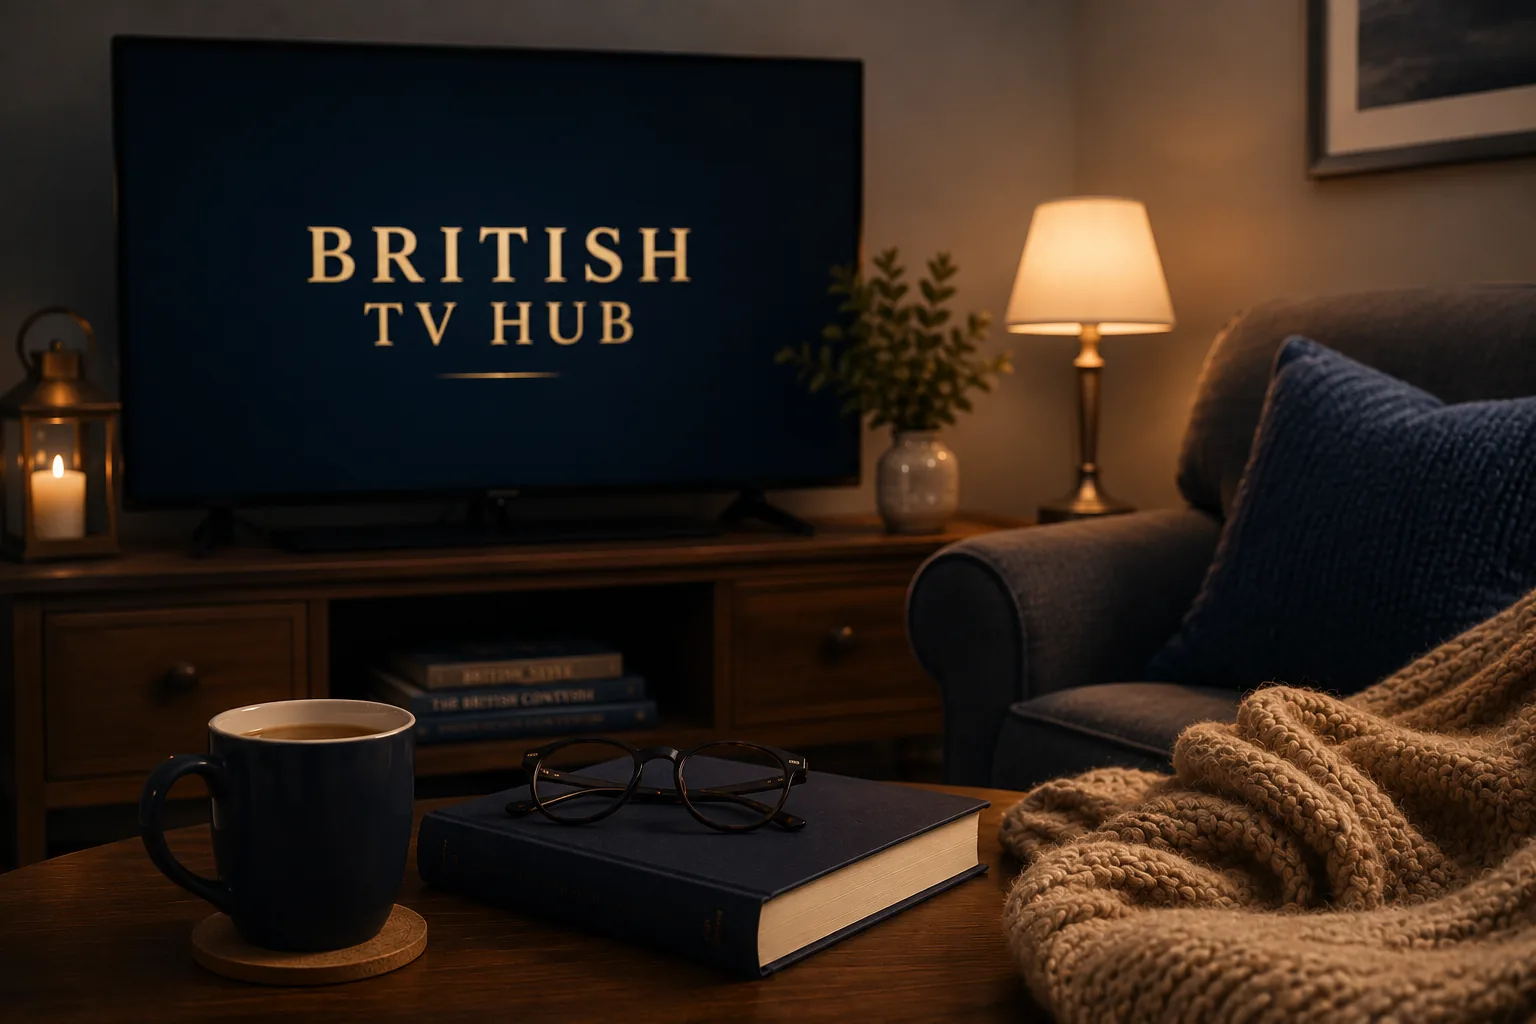
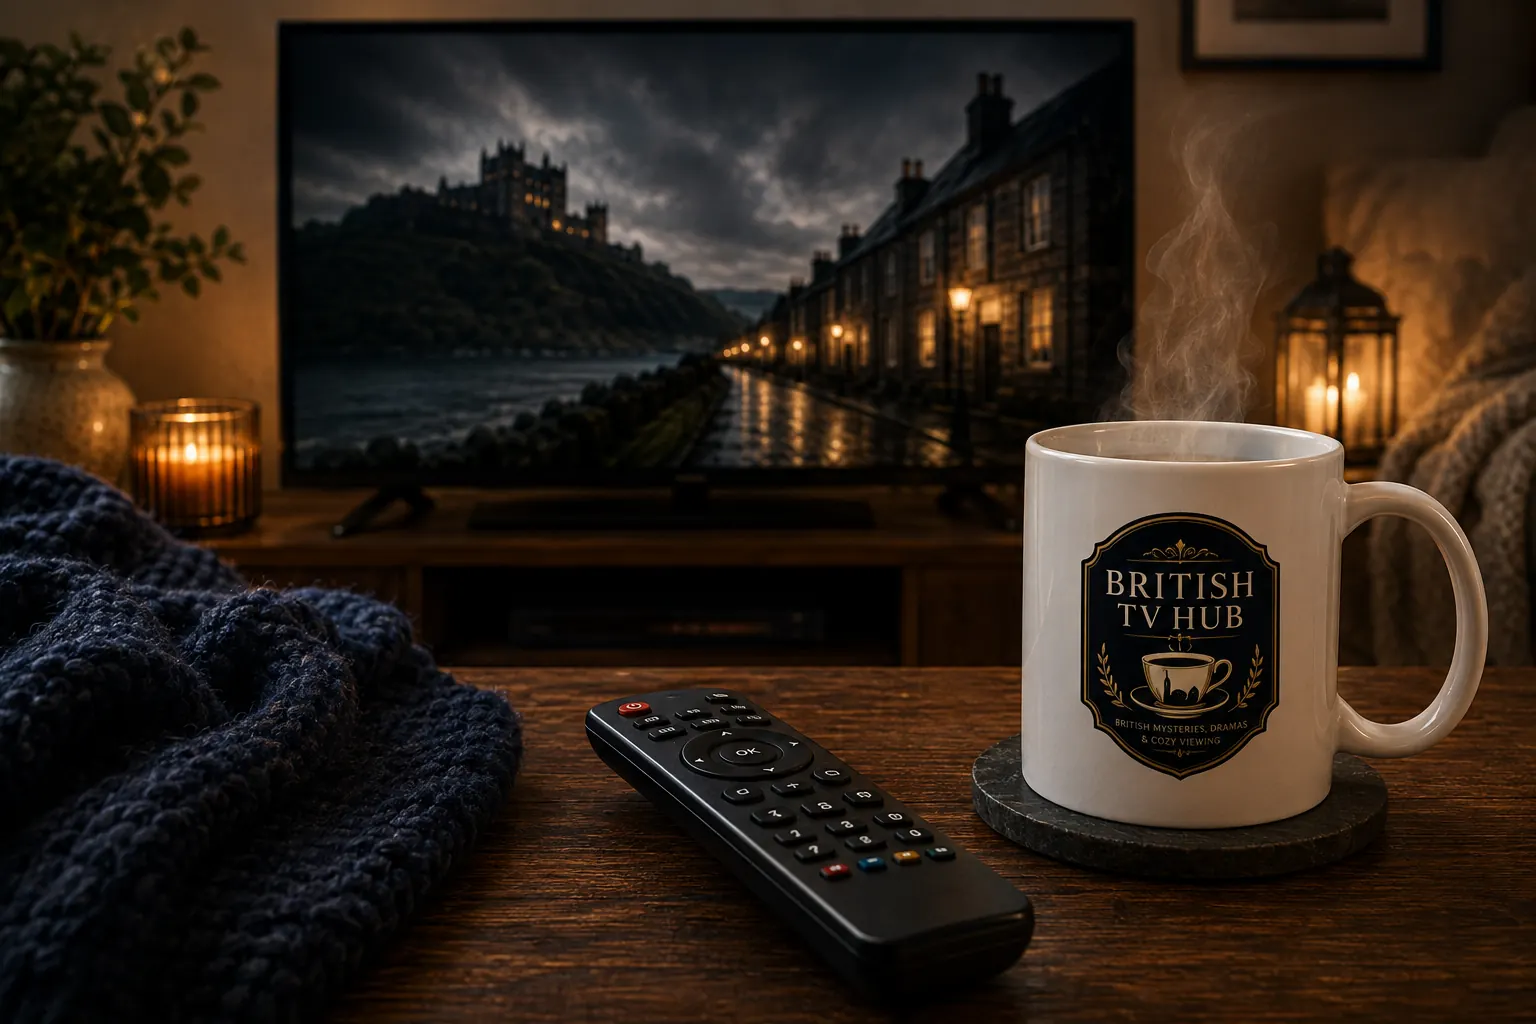
Reorganize shows-index.html: remove text-heavy editorial block, add 'Browse by:' quick nav + search, replace redundant Featured Collections with 'Not Sure Where to Start?', fix headline superlative, new hero image, tighten subtitle, move themed collections to a compact secondary link row

diff --git a/shows-index.html b/shows-index.html
@@ -1385,11 +1385,11 @@ document.addEventListener('click', function(e){
 <!-- HERO -->
 <div class="page-hero">
   <div class="page-hero-text">
-<h1 class="hero-title">Browse Britain's Best Mystery &amp; Drama Series</h1>
-    <p class="hero-sub">Discover detailed guides to Britain's favourite mysteries, dramas, period pieces, and hidden gems. Every guide includes where to watch, similar series, and recommendations for what to watch next.</p>
+<h1 class="hero-title">Browse British Mystery &amp; Drama Series</h1>
+    <p class="hero-sub">Discover Britain's best mysteries, dramas, period pieces, and hidden gems — with where to watch, similar series, and what to watch next.</p>
   </div>
   <div class="page-hero-img">
-    <img src="/shows-index-hero.webp" alt="A cozy living room at night with British TV Hub on the television, a mug of tea, a book, and a knit blanket" width="1536" height="1024" fetchpriority="high">
+    <img src="/shows-index-hero.webp" alt="A British TV Hub mug and remote on a table, with a mystery drama's rainy village and castle on the TV screen behind" width="1536" height="1024" fetchpriority="high">
   </div>
 </div>
 
@@ -1398,43 +1398,18 @@ document.addEventListener('click', function(e){
 
 <hr class="hero-divider" id="heroDivider">
 
-<!-- EDITORIAL CARD -->
-<div class="editorial-card ec-hidden" id="editorialCard">
-  <img src="/BTH_Logo.png" alt="British TV Hub" class="editorial-card-logo">
-  <div>
-    <p style="font-family:'Raleway',sans-serif;font-size:12px;letter-spacing:2.5px;text-transform:uppercase;color:#c9a96e;margin:0 0 8px;font-weight:700;">From British TV Hub</p>
-    <h2 style="font-family:'Playfair Display',serif;font-size:26px;font-weight:400;color:#f0e8d4;margin:0 0 12px;line-height:1.25;">Discover Your Next Favourite British Series</h2>
-    <p style="font-family:'Crimson Text',serif;font-size:17px;color:#e0d9c8;line-height:1.6;margin:0;">Finding your next British series shouldn't take an hour. British TV Hub watches new releases, revisits classics, and uncovers hidden gems every month &mdash; so you can spend less time searching and more time watching.</p>
-    <p style="font-family:'Crimson Text',serif;font-size:17px;color:#e0d9c8;line-height:1.6;margin:12px 0 0;">Browse by theme in our <a href="/essentials-collections.html" style="color:#c9a96e;">Curated Collections</a>, or dig into some genuinely <a href="/hidden-dramas.html" style="color:#c9a96e;">Hidden British Dramas</a>.</p>
-    <p style="font-family:'Crimson Text',serif;font-size:17px;color:#e0d9c8;line-height:1.6;margin:12px 0 0;">Two new collections: <a href="/british-period-dramas.html" style="color:#c9a96e;">British Period Dramas</a> and <a href="/modern-crime-procedurals.html" style="color:#c9a96e;">Modern Crime Procedurals</a>. Or settle in with <a href="/sunday-night-dramas.html" style="color:#c9a96e;">Sunday Night Dramas</a>, spot the familiar faces in <a href="/actor-crossovers.html" style="color:#c9a96e;">You'll Recognize Them From...</a>, or try the <a href="/weekend-binge-guide.html" style="color:#c9a96e;">Weekend Binge Guide</a> for something shorter.</p>
-    <div class="editorial-card-stat">
-      <span class="stat-num" id="statNum">0+</span>
-      <span class="stat-label">Curated Guides</span>
-    </div>
-  </div>
+<!-- BROWSE BY: quick nav -->
+<div id="genres" style="max-width:1100px;margin:0 auto 32px;display:flex;flex-wrap:wrap;align-items:center;gap:14px;">
+  <span style="font-family:'Raleway',sans-serif;font-size:12px;letter-spacing:1.5px;text-transform:uppercase;color:#c9a96e;font-weight:700;">Browse by:</span>
+  <a href="/top10.html" class="genre-chip">Mysteries</a>
+  <a href="/shows.html" class="genre-chip">Crime Dramas</a>
+  <a href="/british-period-dramas.html" class="genre-chip">Period Dramas</a>
+  <a href="/cozy.html" class="genre-chip">Cozy &amp; Gentle</a>
+  <a href="/hidden-gems.html" class="genre-chip">Hidden Gems</a>
+  <a href="#all-shows" class="genre-chip">All Shows</a>
+  <input type="text" id="show-search-input" placeholder="Find a series..." autocomplete="off" oninput="filterShowCards(this.value)" style="flex:1;min-width:180px;max-width:260px;box-sizing:border-box;background:#1e2433;border:1px solid #4a5570;color:#f0e8d4;padding:10px 14px;font-family:'Crimson Text',serif;font-size:15px;border-radius:20px;outline:none;">
 </div>
-
-<!-- BROWSE BY GENRE -->
-<div id="genres" style="background:linear-gradient(135deg,#2c3345 0%,#1a2135 100%);border:1px solid #3d4a60;border-radius:4px;padding:24px;margin:0 auto 20px;max-width:1100px;">
-  <p style="font-family:'Raleway',sans-serif;font-size:13px;letter-spacing:1.5px;text-transform:uppercase;color:#c9a96e;margin:0 0 16px;">Browse by Genre</p>
-  <div style="display:flex;flex-wrap:wrap;gap:10px;">
-    <a href="/cozy.html" class="genre-chip featured">Cozy Mysteries</a>
-    <a href="/top10.html" class="genre-chip featured">Police Procedurals</a>
-    <a href="/detective-partnerships.html" class="genre-chip">Detective Partnerships</a>
-    <a href="/shows.html" class="genre-chip">Crime Dramas</a>
-    <a href="/masterpiece2026.html" class="genre-chip">Period Dramas</a>
-    <a href="/hidden-gems.html" class="genre-chip">Hidden Gems</a>
-    <a href="/books" class="genre-chip">Literary Adaptations</a>
-    <a href="#most-watched" class="genre-chip">Most Watched</a>
-  </div>
-</div>
-
-<!-- SEARCH THE LIBRARY -->
-<div style="background:var(--bg-dark);border:1px solid var(--border);border-radius:4px;padding:24px;margin:0 auto 32px;max-width:1100px;">
-  <p style="font-family:'Raleway',sans-serif;font-size:13px;letter-spacing:1.5px;text-transform:uppercase;color:#c9a96e;margin:0 0 14px;">Search the Library</p>
-  <input type="text" id="show-search-input" placeholder="Search shows by name..." autocomplete="off" oninput="filterShowCards(this.value)" style="width:100%;max-width:480px;box-sizing:border-box;background:#1e2433;border:1px solid #4a5570;color:#f0e8d4;padding:12px 16px;font-family:'Crimson Text',serif;font-size:16px;border-radius:3px;outline:none;">
-  <p id="show-search-empty" style="display:none;font-family:'Crimson Text',serif;font-style:italic;color:#9090a8;margin:14px 0 0;">No shows match your search.</p>
-</div>
+<p id="show-search-empty" style="display:none;max-width:1100px;margin:-20px auto 20px;font-family:'Crimson Text',serif;font-style:italic;color:#9090a8;">No shows match your search.</p>
 <script>
 function filterShowCards(query){
   var q = query.trim().toLowerCase();
@@ -1451,83 +1426,29 @@ function filterShowCards(query){
 }
 </script>
 
-<!-- ALPHABETICAL INDEX -->
-<div style="background:var(--bg-dark);border:1px solid var(--border);border-radius:4px;padding:24px;margin:0 auto 32px;max-width:1100px;">
-  <p style="font-family:'Raleway',sans-serif;font-size:13px;letter-spacing:1.5px;text-transform:uppercase;color:#c9a96e;margin:0 0 14px;">Browse Alphabetically</p>
-  <div id="az-index" style="display:flex;flex-wrap:wrap;gap:6px;font-family:'Raleway',sans-serif;font-size:13px;letter-spacing:0.5px;"></div>
-</div>
-<script>
-document.addEventListener("DOMContentLoaded", function(){
-  var letters = "ABCDEFGHIJKLMNOPQRSTUVWXYZ".split("");
-  var present = new Set();
-  document.querySelectorAll("a.show-card").forEach(function(card){
-    var nameEl = card.querySelector(".show-card-name");
-    if (!nameEl) return;
-    var name = nameEl.textContent.trim();
-    if (/^the\s+/i.test(name)) name = name.replace(/^the\s+/i, "");
-    var first = name.charAt(0).toUpperCase();
-    present.add(first);
-    if (!card.id) {
-      var anchorId = "letter-" + first;
-      if (!document.getElementById(anchorId)) card.id = anchorId;
-    }
-  });
-  var wrap = document.getElementById("az-index");
-  letters.forEach(function(letter){
-    if (present.has(letter)) {
-      var a = document.createElement("a");
-      a.href = "#letter-" + letter;
-      a.textContent = letter;
-      a.style.cssText = "color:#c9a96e;text-decoration:none;padding:4px 8px;border:1px solid #3d4a60;border-radius:3px;";
-      wrap.appendChild(a);
-    } else {
-      var span = document.createElement("span");
-      span.textContent = letter;
-      span.style.cssText = "color:#4a5570;padding:4px 8px;";
-      wrap.appendChild(span);
-    }
-  });
-});
-</script>
-
-<!-- FEATURED COLLECTIONS -->
+<!-- NOT SURE WHERE TO START -->
 <div style="max-width:1100px;margin:0 auto 40px;">
-  <p class="section-label">Featured Collections</p>
-
-  <a href="/hidden-gems.html" class="fc-hero-card" style="position:relative;display:block;overflow:hidden;border-radius:12px;min-height:280px;text-decoration:none;margin-bottom:20px;border:1px solid #3d4a60;">
-    <img src="/hidden-gems-hero.webp" alt="A rain-streaked window with a vintage file box labeled Hidden Gems" style="position:absolute;inset:0;width:100%;height:100%;object-fit:cover;">
-    <div style="position:absolute;inset:0;background:linear-gradient(to right,#131926 25%,rgba(19,25,38,0.75) 55%,rgba(19,25,38,0.25) 100%);"></div>
-    <div style="position:relative;z-index:2;padding:40px;max-width:520px;">
-      <p style="font-family:'Raleway',sans-serif;font-size:10px;letter-spacing:2px;text-transform:uppercase;color:#c9a96e;margin:0 0 12px;font-weight:700;">Featured Collection</p>
-      <h3 style="font-family:'Playfair Display',serif;font-size:32px;font-weight:400;color:#f0e8d4;margin:0 0 10px;">Hidden Gems</h3>
-      <p style="font-family:'Crimson Text',serif;font-size:17px;font-style:italic;color:#d4c4a4;margin:0 0 20px;">13 overlooked British mysteries and dramas worth discovering &mdash; beyond the household names.</p>
-      <span style="display:inline-block;background:#c9a96e;color:#1a2135;padding:11px 22px;font-family:'Raleway',sans-serif;font-size:11px;font-weight:600;letter-spacing:1.5px;text-transform:uppercase;border-radius:2px;">Explore Hidden Gems &rarr;</span>
-    </div>
-  </a>
-
+  <p class="section-label">Not Sure Where to Start?</p>
   <div style="display:grid;grid-template-columns:repeat(3,1fr);gap:20px;">
-    <a href="/top10.html" class="site-card fc-card" style="position:relative;display:block;overflow:hidden;border-radius:12px;min-height:160px;text-decoration:none;border:1px solid #3d4a60;">
-      <img src="/top10-hero.webp" alt="Police procedural collection" style="position:absolute;inset:0;width:100%;height:100%;object-fit:cover;">
-      <div style="position:absolute;inset:0;background:linear-gradient(to top,#131926 15%,rgba(19,25,38,0.35) 70%);"></div>
-      <div style="position:relative;z-index:2;padding:20px;height:100%;display:flex;flex-direction:column;justify-content:flex-end;">
-        <h4 style="font-family:'Playfair Display',serif;font-size:19px;font-weight:400;color:#f0e8d4;margin:0 0 4px;">Police Procedurals</h4>
-        <p style="font-family:'Raleway',sans-serif;font-size:10px;letter-spacing:1px;text-transform:uppercase;color:#c9a96e;margin:0;">15 Guides</p>
+    <a href="/cozy.html" class="site-card fc-card" style="position:relative;display:block;overflow:hidden;border-radius:12px;min-height:200px;text-decoration:none;border:1px solid #3d4a60;">
+      <img src="/cozy-hero.webp" alt="A Cozy Mystery" style="position:absolute;inset:0;width:100%;height:100%;object-fit:cover;">
+      <div style="position:absolute;inset:0;background:linear-gradient(to top,#131926 20%,rgba(19,25,38,0.35) 70%);"></div>
+      <div style="position:relative;z-index:2;padding:24px;height:100%;display:flex;flex-direction:column;justify-content:flex-end;">
+        <h4 style="font-family:'Playfair Display',serif;font-size:22px;font-weight:400;color:#f0e8d4;margin:0;">A Cozy Mystery</h4>
       </div>
     </a>
-    <a href="/cozy.html" class="site-card fc-card" style="position:relative;display:block;overflow:hidden;border-radius:12px;min-height:160px;text-decoration:none;border:1px solid #3d4a60;">
-      <img src="/cozy-hero.webp" alt="Cozy mysteries collection" style="position:absolute;inset:0;width:100%;height:100%;object-fit:cover;">
-      <div style="position:absolute;inset:0;background:linear-gradient(to top,#131926 15%,rgba(19,25,38,0.35) 70%);"></div>
-      <div style="position:relative;z-index:2;padding:20px;height:100%;display:flex;flex-direction:column;justify-content:flex-end;">
-        <h4 style="font-family:'Playfair Display',serif;font-size:19px;font-weight:400;color:#f0e8d4;margin:0 0 4px;">Cozy Mysteries</h4>
-        <p style="font-family:'Raleway',sans-serif;font-size:10px;letter-spacing:1px;text-transform:uppercase;color:#c9a96e;margin:0;">18 Guides</p>
+    <a href="/top10.html" class="site-card fc-card" style="position:relative;display:block;overflow:hidden;border-radius:12px;min-height:200px;text-decoration:none;border:1px solid #3d4a60;">
+      <img src="/top10-hero.webp" alt="A Gripping Drama" style="position:absolute;inset:0;width:100%;height:100%;object-fit:cover;">
+      <div style="position:absolute;inset:0;background:linear-gradient(to top,#131926 20%,rgba(19,25,38,0.35) 70%);"></div>
+      <div style="position:relative;z-index:2;padding:24px;height:100%;display:flex;flex-direction:column;justify-content:flex-end;">
+        <h4 style="font-family:'Playfair Display',serif;font-size:22px;font-weight:400;color:#f0e8d4;margin:0;">A Gripping Drama</h4>
       </div>
     </a>
-    <a href="/books" class="site-card fc-card" style="position:relative;display:block;overflow:hidden;border-radius:12px;min-height:160px;text-decoration:none;border:1px solid #3d4a60;">
-      <img src="/books-hero.webp" alt="Literary adaptations collection" style="position:absolute;inset:0;width:100%;height:100%;object-fit:cover;">
-      <div style="position:absolute;inset:0;background:linear-gradient(to top,#131926 15%,rgba(19,25,38,0.35) 70%);"></div>
-      <div style="position:relative;z-index:2;padding:20px;height:100%;display:flex;flex-direction:column;justify-content:flex-end;">
-        <h4 style="font-family:'Playfair Display',serif;font-size:19px;font-weight:400;color:#f0e8d4;margin:0 0 4px;">Literary Adaptations</h4>
-        <p style="font-family:'Raleway',sans-serif;font-size:10px;letter-spacing:1px;text-transform:uppercase;color:#c9a96e;margin:0;">The Books Behind the Dramas</p>
+    <a href="/hidden-gems.html" class="site-card fc-card" style="position:relative;display:block;overflow:hidden;border-radius:12px;min-height:200px;text-decoration:none;border:1px solid #3d4a60;">
+      <img src="/hidden-gems-hero.webp" alt="A Hidden Gem" style="position:absolute;inset:0;width:100%;height:100%;object-fit:cover;">
+      <div style="position:absolute;inset:0;background:linear-gradient(to top,#131926 20%,rgba(19,25,38,0.35) 70%);"></div>
+      <div style="position:relative;z-index:2;padding:24px;height:100%;display:flex;flex-direction:column;justify-content:flex-end;">
+        <h4 style="font-family:'Playfair Display',serif;font-size:22px;font-weight:400;color:#f0e8d4;margin:0;">A Hidden Gem</h4>
       </div>
     </a>
   </div>
@@ -1539,7 +1460,7 @@ document.addEventListener("DOMContentLoaded", function(){
   div[style*="grid-template-columns:repeat(3,1fr)"] { grid-template-columns: 1fr !important; }
 }
 </style>
-<!-- END FEATURED COLLECTIONS -->
+<!-- END NOT SURE WHERE TO START -->
 
 <!-- START WATCHING TONIGHT -->
 <div style="background:linear-gradient(135deg,#1e2433 0%,#161c2a 100%);border:1px solid #4a5570;border-left:4px solid #8b1a2e;border-radius:4px;padding:36px 40px;margin:0 auto 32px;max-width:1100px;">
@@ -1757,6 +1678,25 @@ document.addEventListener("DOMContentLoaded", function(){
       <span class="platform-btn">PBS Passport &rarr;</span>
     </a>
 
+  </div>
+</div>
+
+<!-- MORE COLLECTIONS (compact, secondary tier) -->
+<div style="max-width:1100px;margin:0 auto 32px;padding-top:8px;border-top:1px solid #3d4a60;">
+  <p style="font-family:'Raleway',sans-serif;font-size:11px;letter-spacing:1px;text-transform:uppercase;color:#8a8fa3;margin:16px 0 10px;">More Themed Collections</p>
+  <div style="font-family:'Crimson Text',serif;font-size:15px;line-height:2;">
+    <a href="/british-period-dramas.html" style="color:#c9a96e;">British Period Dramas</a> &middot;
+    <a href="/modern-crime-procedurals.html" style="color:#c9a96e;">Modern Crime Procedurals</a> &middot;
+    <a href="/sunday-night-dramas.html" style="color:#c9a96e;">Sunday Night Dramas</a> &middot;
+    <a href="/weekend-binge-guide.html" style="color:#c9a96e;">Weekend Binge Guide</a> &middot;
+    <a href="/actor-crossovers.html" style="color:#c9a96e;">You'll Recognize Them From...</a> &middot;
+    <a href="/shows-like-vera-tv.html" style="color:#c9a96e;">Shows Like Vera</a> &middot;
+    <a href="/shows-like-shetland-tv.html" style="color:#c9a96e;">Shows Like Shetland</a> &middot;
+    <a href="/cozy-autumn-mysteries.html" style="color:#c9a96e;">Cozy Autumn Mysteries</a> &middot;
+    <a href="/best-cozy-mystery-authors.html" style="color:#c9a96e;">Best Cozy Mystery Authors</a> &middot;
+    <a href="/rainy-day-mysteries.html" style="color:#c9a96e;">Rainy Day Mysteries</a> &middot;
+    <a href="/seasonal-collections.html" style="color:#c9a96e;">Seasonal Collections</a> &middot;
+    <a href="/hidden-dramas.html" style="color:#c9a96e;">Hidden British Dramas</a>
   </div>
 </div>
 
